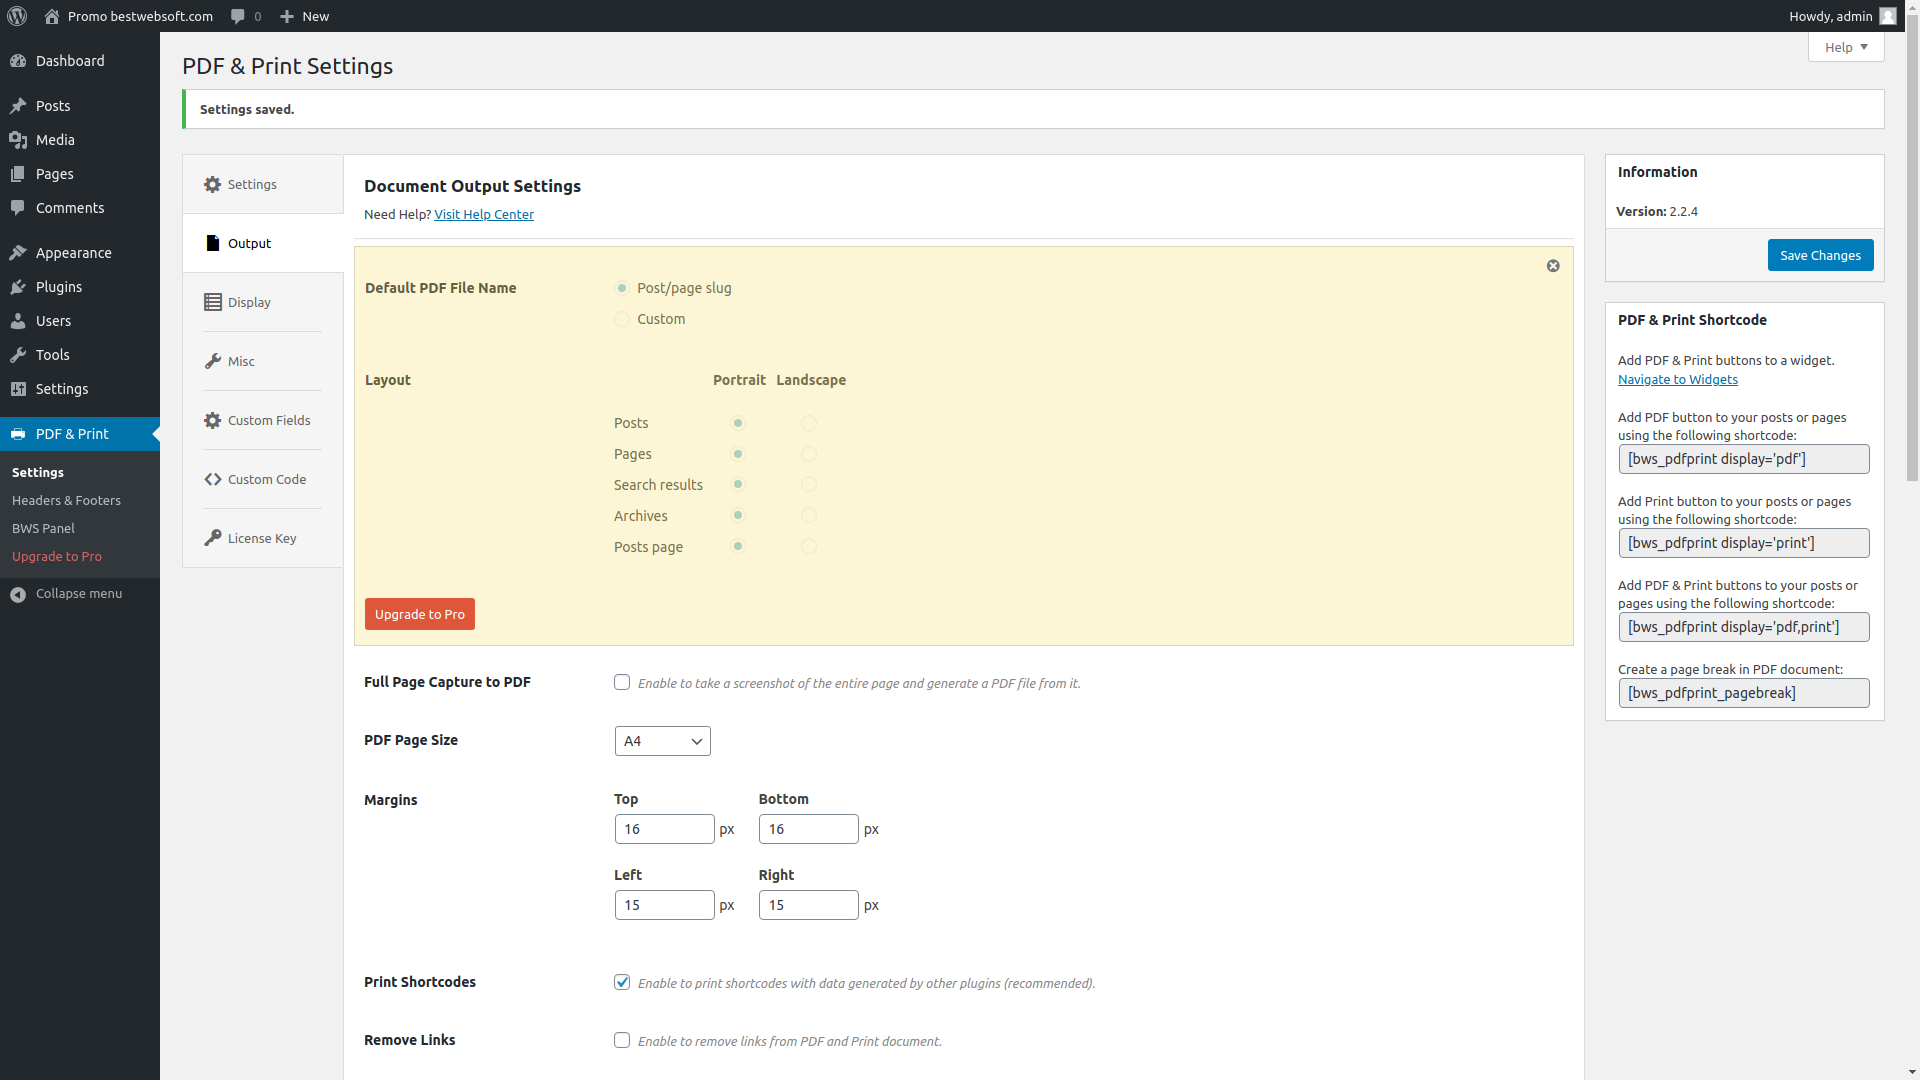
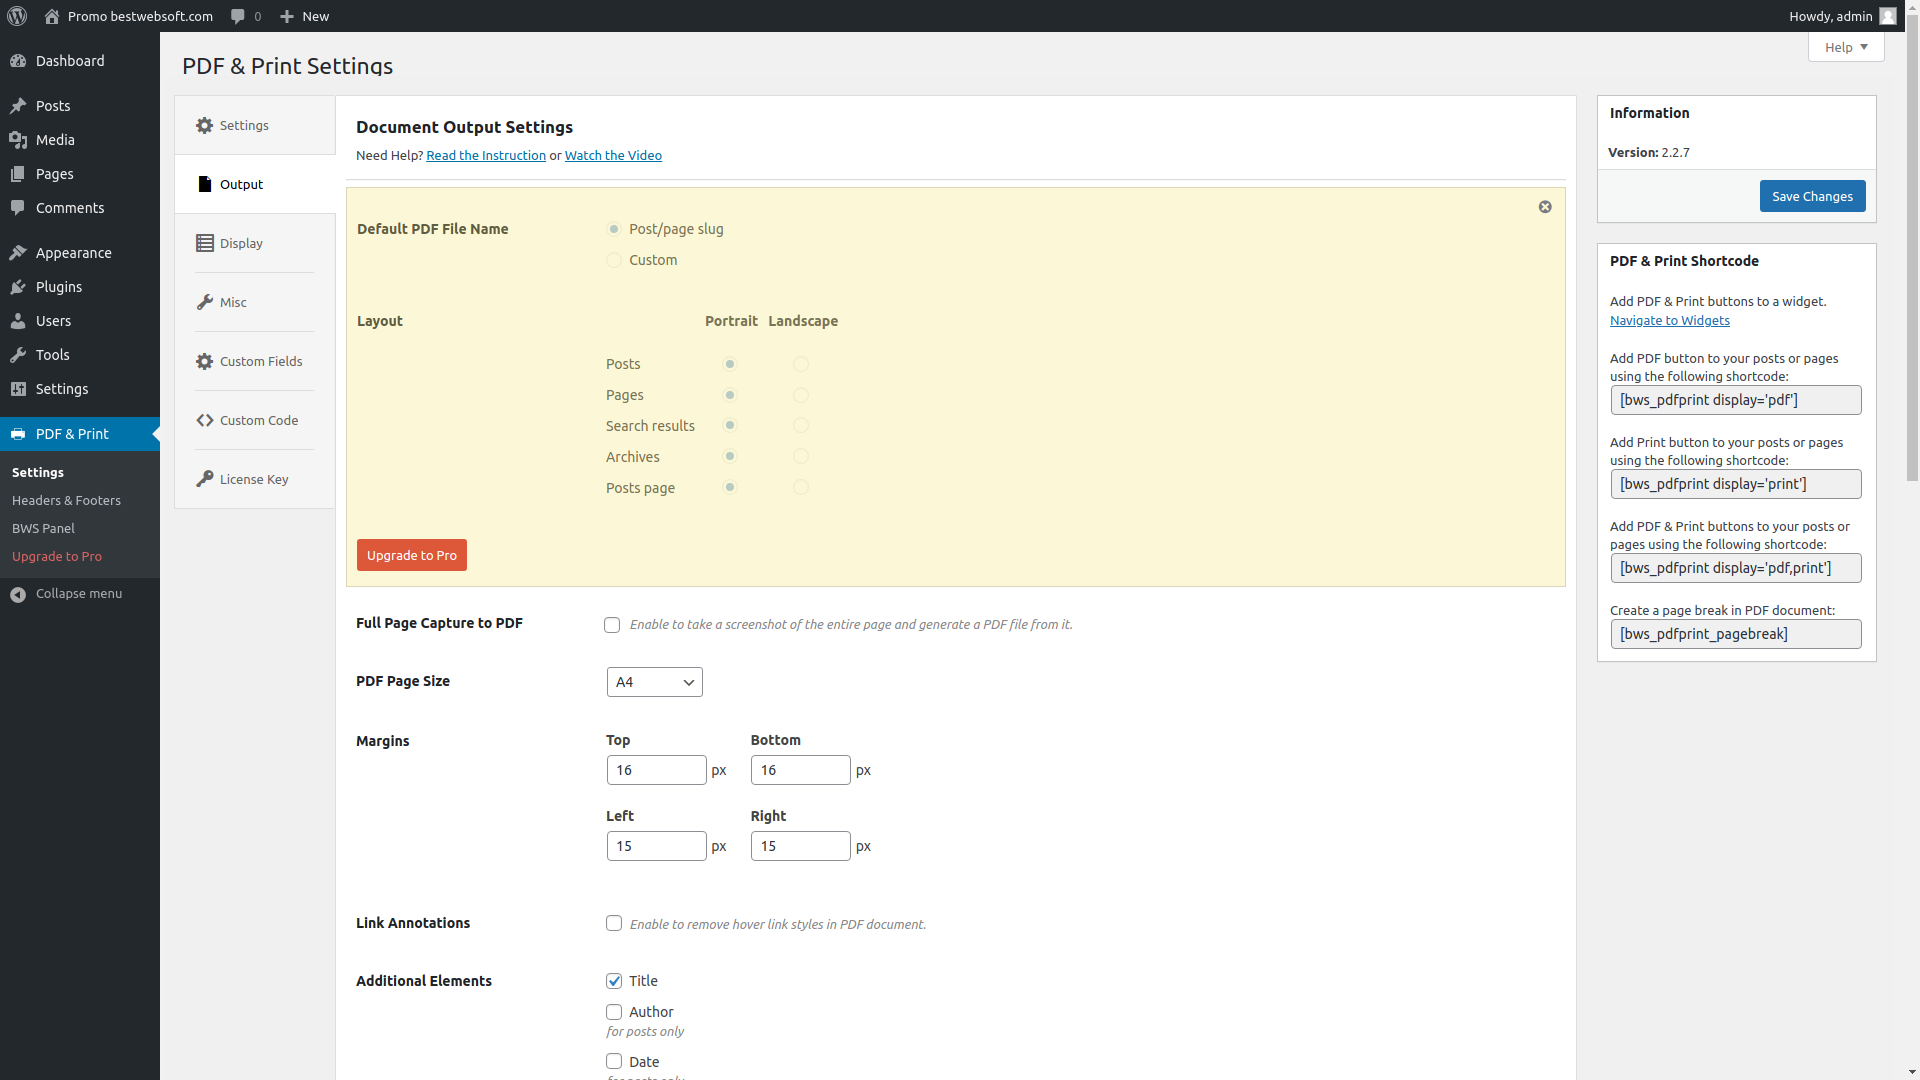
v2.2.8

diff --git a/bws_menu/js/general_script.js b/bws_menu/js/general_script.js
@@ -10,7 +10,7 @@ function bws_show_settings_notice() {
 		/**
 		 * add notice about changing on the settings page 
 		 */
-		$( '.bws_form input, .bws_form textarea, .bws_form select' ).bind( "change paste select", function() {
+		$( '.bws_form input, .bws_form textarea, .bws_form select' ).on( "change paste select", function() {
 			if ( $( this ).attr( 'type' ) != 'submit' && ! $( this ).hasClass( 'bws_no_bind_notice' ) ) {
 				bws_show_settings_notice();
 			};

diff --git a/bws_menu/js/bws_tooltip.js b/bws_menu/js/bws_tooltip.js
@@ -17,7 +17,7 @@
 						}
 					}
 					button = jQuery( button );
-					button.bind('click.pointer', function () {
+					button.on('click.pointer', function () {
 						t.element.pointer('close');
 					});
 					return button;

diff --git a/bws_menu/bws_menu.php b/bws_menu/bws_menu.php
@@ -1,7 +1,7 @@
 <?php
 /*
 * Function for displaying BestWebSoft menu
-* Version: 2.3.7
+* Version: 2.3.9
 */
 
 if ( ! function_exists ( 'bws_admin_enqueue_scripts' ) )
@@ -393,12 +393,12 @@ if ( ! function_exists( 'bws_add_menu_render' ) ) {
 						<p>
 							<strong><?php _e( 'Need help installing the plugin?', 'bestwebsoft' ); ?></strong>
 							<br>
-							<a target="_blank" href="https://docs.google.com/document/d/1-hvn6WRvWnOqj5v5pLUk7Awyu87lq5B_dO-Tv-MC9JQ/"><?php _e( 'How to install WordPress plugin from your admin Dashboard (ZIP archive)', 'bestwebsoft' ); ?></a>
+							<a target="_blank" href="https://bestwebsoft.com/documentation/how-to-install-a-wordpress-product/how-to-install-a-wordpress-plugin/"><?php _e( 'How to install WordPress plugin from your admin Dashboard (ZIP archive)', 'bestwebsoft' ); ?></a>
 						</p>						
 						<p>
 							<strong><?php _e( 'Get Started', 'bestwebsoft' ); ?></strong>
 							<br>
-							<a target="_blank" href="https://drive.google.com/drive/u/0/folders/0B5l8lO-CaKt9VGh0a09vUjNFNjA"><?php _e( 'Documentation', 'bestwebsoft' ); ?></a>
+							<a target="_blank" href="https://bestwebsoft.com/documentation/"><?php _e( 'Documentation', 'bestwebsoft' ); ?></a>
 							<br>
 							<a target="_blank" href="https://www.youtube.com/user/bestwebsoft"><?php _e( 'Video Instructions', 'bestwebsoft' ); ?></a>
 							<br>

diff --git a/bws_menu/bws_functions.php b/bws_menu/bws_functions.php
@@ -800,7 +800,7 @@ if ( ! class_exists( 'BWS_admin_tooltip' ) ) {
 				if ( ! in_array( $tooltip_args['position']['edge'], array( 'left', 'right', 'top', 'bottom' ) )  ) {
 					$tooltip_args['position']['edge'] = 'top';
 				}
-				if ( ! in_array( $tooltip_args['position']['align'], array( 'top', 'bottom', 'left', 'right', 'center', ) ) ) {
+				if ( ! in_array( $tooltip_args['position']['align'], array( 'top', 'bottom', 'left', 'right', 'center' ) ) ) {
 					$tooltip_args['position']['align'] = 'center';
 				}
 			}
@@ -958,7 +958,7 @@ if ( ! function_exists( 'bws_help_tab' ) ) {
 
 		$screen->set_help_sidebar(
 			'<p><strong>' . __( 'For more information:', 'bestwebsoft' ) . '</strong></p>' .
-			'<p><a href="https://drive.google.com/folderview?id=0B5l8lO-CaKt9VGh0a09vUjNFNjA&usp=sharing#list" target="_blank">' . __( 'Documentation', 'bestwebsoft' ) . '</a></p>' .
+			'<p><a href="https://bestwebsoft.com/documentation/" target="_blank">' . __( 'Documentation', 'bestwebsoft' ) . '</a></p>' .
 			'<p><a href="https://www.youtube.com/user/bestwebsoft/playlists?flow=grid&sort=da&view=1" target="_blank">' . __( 'Video Instructions', 'bestwebsoft' ) . '</a></p>' .
 			'<p><a href="https://support.bestwebsoft.com/hc/en-us/requests/new" target="_blank">' . __( 'Submit a Request', 'bestwebsoft' ) . '</a></p>'
 		);

diff --git a/bws_menu/class-bws-settings.php b/bws_menu/class-bws-settings.php
@@ -767,13 +767,13 @@ if ( ! class_exists( 'Bws_Settings_Tabs' ) ) {
 									<p>
 										<strong><?php _e( 'Need help installing the plugin?', 'bestwebsoft' ); ?></strong>
 										<br>
-										<a target="_blank" href="https://docs.google.com/document/d/1-hvn6WRvWnOqj5v5pLUk7Awyu87lq5B_dO-Tv-MC9JQ/"><?php _e( 'How to install WordPress plugin from your admin Dashboard (ZIP archive)', 'bestwebsoft' ); ?></a>
+										<a target="_blank" href="https://bestwebsoft.com/documentation/how-to-install-a-wordpress-product/how-to-install-a-wordpress-plugin/"><?php _e( 'How to install WordPress plugin from your admin Dashboard (ZIP archive)', 'bestwebsoft' ); ?></a>
 									</p>
 									<br>					
 									<p>
 										<strong><?php _e( 'Get Started', 'bestwebsoft' ); ?></strong>
 										<br>
-										<a target="_blank" href="https://drive.google.com/drive/u/0/folders/0B5l8lO-CaKt9VGh0a09vUjNFNjA"><?php _e( 'Documentation', 'bestwebsoft' ); ?></a>
+										<a target="_blank" href="https://bestwebsoft.com/documentation/"><?php _e( 'Documentation', 'bestwebsoft' ); ?></a>
 										<br>
 										<a target="_blank" href="https://www.youtube.com/user/bestwebsoft"><?php _e( 'Video Instructions', 'bestwebsoft' ); ?></a>
 										<br>

diff --git a/pdf-print.php b/pdf-print.php
@@ -6,7 +6,7 @@ Description: Generate PDF files and print WordPress posts/pages. Customize docum
 Author: BestWebSoft
 Text Domain: pdf-print
 Domain Path: /languages
-Version: 2.2.7
+Version: 2.2.8
 Author URI: https://bestwebsoft.com/
 License: GPLv2 or later
 */
@@ -955,7 +955,7 @@ if ( ! function_exists( 'pdfprnt_generate_template' ) ) {
 				if ( 0 == $pdfprnt_options['additional_fonts'] ) {
 					$content = pdfprnt_preg_replace( array( "font-family", "font:" ), $content );
 				}
-                if ( has_blocks( $content ) ) {
+                if ( function_exists( 'has_blocks' ) && has_blocks( $content ) ) {
                     $content = preg_replace( '/\s?<!--.*-->\s?/', "", $content );
                     $content = preg_replace('~<p></p>~', '', $content);
                 }

diff --git a/includes/class-pdfprnt-settings.php b/includes/class-pdfprnt-settings.php
@@ -48,8 +48,10 @@ if ( ! class_exists( 'Pdfprnt_Settings_Tabs' ) ) {
                 /*pls */
 				'wp_slug'					=> 'pdf-print',
                 'link_key' 			 => 'd9da7c9c2046bed8dfa38d005d4bffdb',
-				'link_pn' 			 => '101'
-                /*  pls*/
+				'link_pn' 			 => '101',                
+                'doc_link'			=> 'https://bestwebsoft.com/documentation/pdf-print/pdf-print-user-guide/',
+                'doc_video_link'     => 'https://www.youtube.com/watch?v=Pec-6dDiou0'
+/*  pls*/
 			) );
 
 			add_action( get_parent_class( $this ) . '_display_custom_messages', array( $this, 'display_custom_messages' ) );
